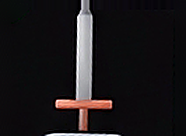
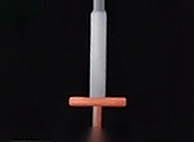
builder: Tongue Flick art window antialiased and recut to TARGET's sword place
Matched check run 6 queued three items. The card art's tilted bottom edge
now fades over one screen pixel instead of stair-stepping; flick's cut is
re-registered (offset 0/0, scale 1.00) with TARGET's pill sliver cleared.
Card error vs TARGET 21.3 -> 11.7. Grader FAIL x3; item left open.

Claude-Session: https://claude.ai/code/session_01FhpwQSQiick6h2SicEb53c

Changed region(s): [[0.2151, 0.0, 0.672, 1.0], [0.0538, 0.9706, 0.1344, 1.0]]

diff --git a/tools/cardart_cut.py b/tools/cardart_cut.py
@@ -24,14 +24,16 @@ OUT = ROOT / "game/assets/cardart"
 # name: (window centre x, y in TARGET px, card tilt in degrees, + = clockwise[,
 # window width in TARGET px when the card's window is not WIN_W])
 CARDS = {"scramble": (647.3, 882.4, 5.0, 137.0), "leap": (373.8, 882.2, -5.0, 137.0),
-         "tongue_snap": (507.0, 871.0, 0.0, 137.0), "flick": (788.0, 891.0, 9.0, 133.0)}   # run 16: the window runs 0.033 of the card further left (card_view A1_LEFT_OUT)
+         "tongue_snap": (507.0, 871.0, 0.0, 137.0), "flick": (781.3, 893.7, 9.0, 138.3)}   # run 16: the window runs 0.033 of the card further left (card_view A1_LEFT_OUT)
 # Shipped from this cut: scramble only (window error 35.9 -> 30.1 on the
 # --hand square). Leap's cut registered worse (24.2 -> 34.4) and the older
 # reflected cut stays; run with a name to cut one card.
 SATURATE = {"leap": 1.2}
+USM = {"flick": 40}   # run 6 (2026-10-10): at 130 the halo lit the blade's grey right face as bright as its left (188 vs TARGET's 163)
 EDGE_FIX = {"leap", "tongue_snap", "flick"}                # cards whose cut needs the edge columns replaced (scramble's trim is tilted across them)
 KEEP_TOP = {"flick"}         # the sword's tip reaches the name band: inpainting the top rows smeared it
 PILL_ROW = {"flick": 0.86}   # the sword's guard and grip sit low, over the 0.7 line: key only the pill's own rows
+FOOT_CLEAR = {"flick": 6}    # TARGET px: the top of TARGET's pill cut off at the window's foot; the key missed it and a pale sliver showed past the card's own pill (run 6, 2026-10-10)
 WIN_W = 122.0                      # TARGET px: the window inside the gold line (run 14: the frame now trims a 2 px bleed)
 ASPECT = (0.889 * 690) / (0.456 * 984)   # card_view.A1_ART (run 16: 0.039 .. 0.928)
 SCALE = 1.4                        # output px per TARGET px: ~2x the window on screen, so the card's mip 1 lands 1:1 and the art stays as crisp as TARGET's (run 14)
@@ -74,6 +76,11 @@ def cut(name: str, cx: float, cy: float, tilt: float, win_w: float = 0.0) -> Non
         if (mx[y] < 70).mean() > 0.6:
             dark_top[y] = True
     hole |= dark_top
+    if name in FOOT_CLEAR:
+        n = int(round(FOOT_CLEAR[name] * crop.shape[0] / h))
+        foot = np.zeros_like(hole)
+        foot[-n:] = (mx[-n:] > 60) & (mx[-n:] - mn[-n:] < 40)
+        hole |= ndi.binary_dilation(foot, iterations=1)
     # TARGET's own trim or name band caught at the window's edges (a column
     # or row within 8 px of the edge that is dark or carries the gold line):
     # replaced by the nearest clean column / row, so no border shows inside
@@ -101,7 +108,7 @@ def cut(name: str, cx: float, cy: float, tilt: float, win_w: float = 0.0) -> Non
     out = Image.fromarray(crop).resize((int(round(w * SCALE)), int(round(h * SCALE))), Image.LANCZOS)
     # The card draws this through a mip and a bilinear tap; a light unsharp
     # mask gives back the edge contrast TARGET's window has (run 14).
-    out = out.filter(ImageFilter.UnsharpMask(radius=1.6, percent=130, threshold=1))   # run 16: the graders still read both windows soft at 70
+    out = out.filter(ImageFilter.UnsharpMask(radius=1.6, percent=USM.get(name, 130), threshold=1))   # run 16: the graders still read both windows soft at 70
     # Drawn small through the card's filters, Leap's sky and leaves lose a
     # little colour against TARGET's crisp window; give it back (run 14).
     if name in SATURATE:

diff --git a/design/plan/BUILDER-QUEUE.md b/design/plan/BUILDER-QUEUE.md
@@ -13,6 +13,24 @@ run failed.
 
 **The standard is TARGET 1:1 (Nick, 2026-10-08: "build the concept 1:1").** `tools/builder/BRIEF.md` has the rules. Everything before 2026-10-07 is in `## Archive` and binds nothing.
 
+Matched check 2026-10-10 (run 6): critic B MODERATE on Tongue Flick's art (sword size, window edge); shared MINOR: Climb keyword glyphs, climb gauge orb and icons, card text softness (the open pills item) (three items queued above)
+
+- [ ] **Tongue Flick: TARGET's clean art window edge and sword.**
+      Next pass: run 6 (2026-10-10) grader FAIL x3, "window edge steps ~5 px across the pill; blade a touch narrow, pale and long" (VERDICT: FAIL, not further from TARGET); measured after: the card's mean error vs TARGET-at-720 21.3 -> 11.7 levels, window bottom edge within 1-2 px of TARGET's either side of the pill (1024 px), sword registers at offset 0/0 scale 1.00, guard and grip rows within 1 px, blade row profiles within ~5 levels, pill sliver gone. FIX: none left to build on this card; the title band's left end sits 2-3 px low over the tip (frame geometry), re-check only in the Matched check.
+      TARGET's black art window ends in a clean straight line along the card's tilt, just under the guard, and the pill sits on it; the game's edge is stair-stepped left and right of the Attack pill, a pale sliver of TARGET's own pill shows at the pill's left tip, and the sword reads a touch long with the guard and pill a few px low. Critic B MODERATE, critic A MINOR (2026-10-10 run 6).
+      **Done when** the --square and --hand pairs show no visible difference in Tongue Flick's art window and sword.
+      Test: state=3d beast=cinder_jackal ^tongue-flick-target-s-clean-art-window-e
+
+- [ ] **"Climb" keyword: TARGET's glyphs.**
+      TARGET's gold "Climb" on Tongue Snap and Scramble is clean, even lettering; the game's reads narrower and slightly skewed (the "b" drawn differently). Both critics MINOR (2026-10-10 run 6).
+      **Done when** the --square and --hand pairs show no visible difference in the "Climb" keyword.
+      Test: state=3d beast=cinder_jackal ^climb-keyword-target-s-glyphs
+
+- [ ] **Climb gauge: TARGET's soft orb and bottom icons.**
+      TARGET's top orb has a broad, soft halo and a soft white core and its two bottom portrait icons are muted; the game's orb halo is tighter, its core a small hard hexagon, and the blue-ringed icon reads more colourful. Both critics MINOR (2026-10-10 run 6).
+      **Done when** the --square pair shows no visible difference in the climb gauge's orb and icons.
+      Test: state=3d beast=cinder_jackal ^climb-gauge-target-s-soft-orb-and-botto
+
 Matched check 2026-10-10 (run 5): no MAJOR or MODERATE from either critic; shared MINOR: Switch button label, card pill text and titles (two items queued above)
 
 - [ ] 👀 **Switch button: TARGET's pale blue label and green icon.**

diff --git a/design/plan/BUILDER-QUEUE-NOTES.md b/design/plan/BUILDER-QUEUE-NOTES.md
@@ -2806,3 +2806,13 @@ Found by measuring, not by eye: the jackal is TARGET's own pixels, so every crac
 - 2026-10-10 run 3: TARGET's rules are ~8% taller at the same line width and a touch heavier. The A1 rules label now draws through a FontVariation stretched 1.08 tall (variation_transform; an x-squeeze at size 16 did not narrow the advances and overflowed) with embolden 0.15, and sits 3 px lower in its box. KEYWORD_COLOR f0b45a -> e4a955 (d8b879 read too pale to the grader), LIVE_COLOR 7fd45c -> 95c37a (TARGET's muted green).
 - Gotcha: the keyword underline is 1 px and vanished at some box offsets (top inset -5.5 and -6 lost it on the centre card; -5 and -7 keep it).
 - Grader round 1 FAIL (Climb too pale, block 2 px high); round 2 VERDICT: PASS (MINOR only: TARGET's text a touch softer, its cream a shade warmer).
+
+## Tongue Flick: TARGET's clean art window edge and sword.
+
+- 2026-10-10 run 6: queued from the Matched check (critic B MODERATE, critic A MINOR).
+- The art rect's own bottom edge drew as a hard staircase on the tilted card (the compatibility renderer does not antialias a rotated quad): the card's own art now draws through `game/ui/aa_rect.gdshader`, which fades alpha over the last screen pixel inside the rect, and no longer clips.
+- Recut flick (tools/cardart_cut.py): a pale sliver of TARGET's pill survived at the window's foot (FOOT_CLEAR clears it); the sword registered 7 px left, 2 px low and 4% large on a masked rotation/scale/offset search, so the cut centre moved (788, 891) -> (781.3, 893.7) and the window 133 -> 138.3 TARGET px; the unsharp mask drops to 40 on flick (at 130 the halo lit the blade's grey right face as bright as its left: 188 vs TARGET's 163).
+- Measured after: card mean error vs TARGET-at-720 21.3 -> 11.7; sword offset 0/0 scale 1.00; window edge within 1-2 px both sides of the pill; nothing else in the square changed (1072 px changed, all on this card).
+- Tried and dropped: protecting the grip from the pill inpaint (left a dark blob under the grip).
+- Grader: VERDICT: FAIL x3 (edge step across the pill, blade a touch narrow and long). The edge measurements above disagree with the step.
+- Meshy: none.
